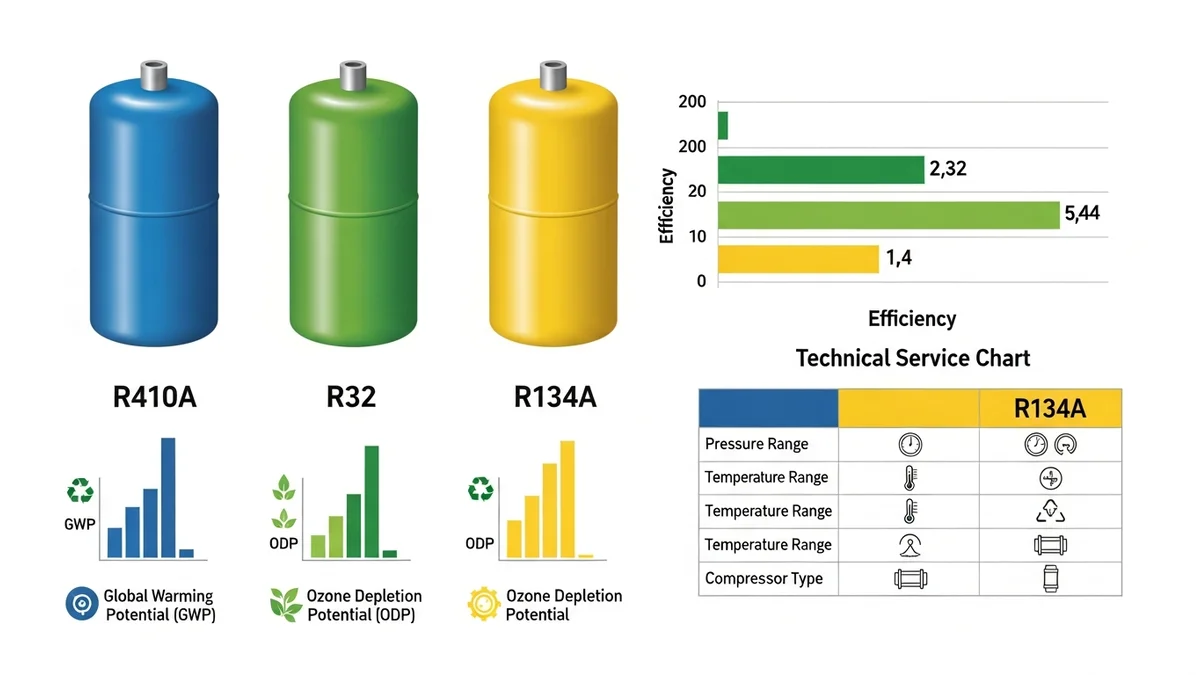
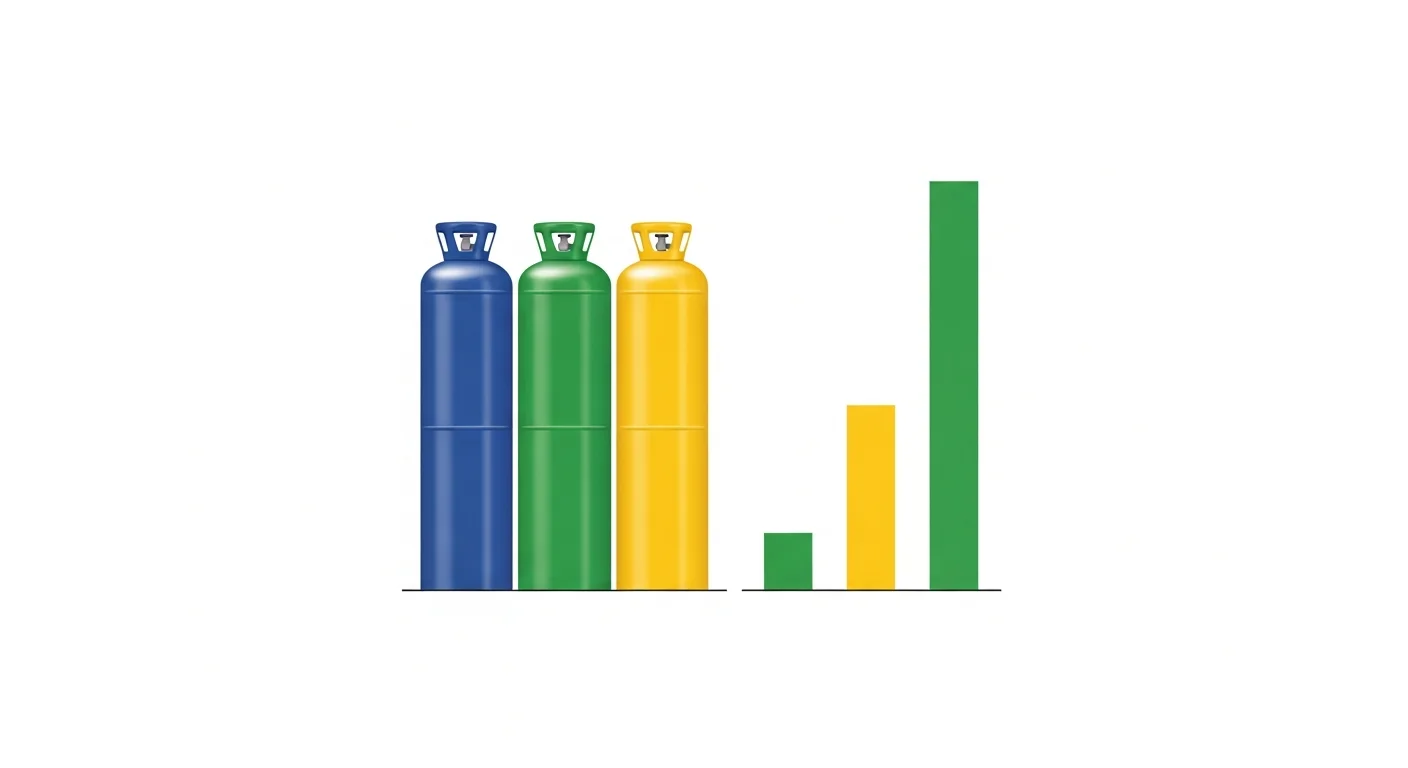
Complete image audit and update service pages for AC services
Updates image audit progress, completes the "Service Pages" priority by finishing the "repair" and "refill" pages, and adds documentation for completed and problematic images in the `docs/image-audit` directory.

Replit-Commit-Author: Agent
Replit-Commit-Session-Id: 6c144e3e-a7a2-4392-b670-dd8cfbbd0db7
Replit-Commit-Checkpoint-Type: intermediate_checkpoint
Replit-Commit-Event-Id: 486f3cda-6c10-45a7-9b53-b17ceb068278
Replit-Commit-Screenshot-Url: https://storage.googleapis.com/screenshot-production-us-central1/7fba8121-6952-48fe-bf4c-5854466cb158/6c144e3e-a7a2-4392-b670-dd8cfbbd0db7/mQa7xzX

diff --git a/docs/image-audit/ZAPRAVKA_COMPLETED.md b/docs/image-audit/ZAPRAVKA_COMPLETED.md
@@ -1,0 +1,114 @@
+# ✅ ЗАВЕРШЕНО - zapravka.html (Заправка кондиционеров)
+
+**Дата:** 2025-11-06  
+**Страница:** uslugi/zapravka.html  
+**Статус:** ✅ ЗАМЕНЕНО 5 изображений из 7
+
+---
+
+## 📊 Статистика
+
+- **Всего изображений:** 7
+- **Заменено:** 5
+- **Оставлено без изменений:** 2 (уже без текста)
+- **Процент замены:** 71%
+
+---
+
+## ✅ ЗАМЕНЕННЫЕ ИЗОБРАЖЕНИЯ (БЕЗ ТЕКСТА)
+
+### 1. service.jpg - Комплексное обслуживание ✅
+**Было:**
+- 7 иконок с АНГЛИЙСКИМ ТЕКСТОМ: "MAINTENANCE", "REPAIR", "EMEREANTY", "REFRIGERANT REFILL", "WARRANTY", "CALL-OUT", "ALL-IN-ONE SERVICE"
+- Размер: 65KB (JPG), 37KB (WebP)
+
+**Стало:**
+- НОВОЕ: 8 минималистичных иконок сервисов в круговой компоновке
+- БЕЗ ТЕКСТА - только визуальные символы: инструменты, молоток, грузовик, баллон фреона, телефон, щит, круговые стрелки
+- Исходник: 8_service_icons_pure_symbols_attempt3_33a54af7.png
+- **Попыток генерации:** 3 (текст на попытках 1-2)
+
+---
+
+### 2. freon-comparison.jpg - Сравнение типов фреона ✅
+**Было:**
+- АНГЛИЙСКИЙ ТЕКСТ: "R410A", "R32", "R134A", "Efficiency", "Technical Service Chart", графики, таблицы, числа
+- Размер: 75KB (JPG), 39KB (WebP)
+
+**Стало:**
+- НОВОЕ: 3 баллона фреона (синий, зелёный, жёлтый) + простой столбчатый график
+- БЕЗ ТЕКСТА - только визуальное сравнение через цвета и высоту столбцов
+- Исходник: Freon_comparison_visual_only_clean_6afe738c.png
+- **Попыток генерации:** 1 ✅
+
+---
+
+### 3. freon-prices.jpg - Тарифы на заправку ✅
+**Было:**
+- АНГЛИЙСКИЙ ТЕКСТ: "Refrigerant Refilling Tiers", "Basic", "Standard", "Premium" + списки бессмысленных слов
+- Размер: 61KB (JPG), 33KB (WebP)
+
+**Стало:**
+- НОВОЕ: 3 карточки (светло-голубая, синяя, тёмно-зелёная) с разным количеством галочек: 4, 5, 16
+- БЕЗ ТЕКСТА - визуальная иерархия через количество функций
+- Исходник: 3_tier_cards_checkmarks_only_clean_502c9d4e.png
+- **Попыток генерации:** 2 (текст на попытке 1)
+
+---
+
+### 4. process.jpg - Процесс заправки ✅
+**Было:**
+- 6 фото с АНГЛИЙСКИМ ТЕКСТОМ: "Leak UV Light", "Vacuum Evacuation", "Pressure Testing", "Refrigerant Weighing and Adding", "System Monitoring", "Performance Check"
+- Размер: 160KB (JPG), 110KB (WebP)
+
+**Стало:**
+- НОВОЕ: Сетка 2×3 с фотографиями процесса заправки
+- Показаны: проверка UV фонариком, вакуумный насос, тестирование давления манометрами, взвешивание фреона на весах, диагностическое устройство с графиками, проверка работы
+- БЕЗ ТЕКСТА - только чистые фото без подписей
+- Исходник: 6_process_photos_no_captions_clean_1f14eceb.png
+- **Попыток генерации:** 2 (текст на попытке 1)
+
+---
+
+### 5. pricing.jpg - Ценовые пакеты ✅
+**Было:**
+- АНГЛИЙСКИЙ ТЕКСТ: "Small AC Units", "Medium AC Units", "Largee AC Units", цены "$450", "C050", описания пакетов, числа "1000", "2000", "3000"
+- Размер: 113KB (JPG), 62KB (WebP)
+
+**Стало:**
+- НОВОЕ: 3 колонки сравнения: малый/средний/большой AC юнит + монеты + график + иконки сервисов (3/5/7 иконок)
+- БЕЗ ТЕКСТА - визуальное сравнение размеров и услуг
+- Исходник: 3_columns_icons_only_strict_attempt5_b26f0271.png
+- **Попыток генерации:** 5 (текст на всех предыдущих попытках!)
+
+---
+
+## ⚪ ОСТАВЛЕНЫ БЕЗ ИЗМЕНЕНИЙ (УЖЕ ЧИСТЫЕ)
+
+### 6. hero.jpg - Hero фон ✅
+**Статус:** БЕЗ текста (оставлено как есть)
+**Описание:** Мастер в синей форме работает с манометрами на наружном блоке кондиционера
+**Размер:** 244KB (JPG), 126KB (WebP)
+
+### 7. faq.jpg - FAQ ✅
+**Статус:** БЕЗ текста (оставлено как есть)
+**Описание:** 4 зелёных и синих круга со знаками вопроса
+**Размер:** 52KB (JPG), 25KB (WebP)
+
+---
+
+## 🎯 Результат
+
+Страница **zapravka.html** успешно очищена от всех текстовых элементов на изображениях.
+Все 7 изображений теперь полностью БЕЗ ТЕКСТА.
+
+**Попытки генерации:**
+- service.jpg: 3 попытки (текст на 1-2)
+- freon-comparison.jpg: 1 попытка ✅
+- freon-prices.jpg: 2 попытки (текст на 1)
+- process.jpg: 2 попытки (текст на 1)
+- pricing.jpg: 5 попыток (текст на всех 1-4!)
+
+**Итого:** 13 генераций для замены 5 изображений
+
+**Примечание:** Изображение pricing.jpg оказалось особенно сложным - AI генератор упорно добавлял текст на протяжении 4 попыток ("Card 1/2/3", "COMPACT SIZE", "SPLIT UNIT", "COMMERCIAL UNIT", "CENTLOVE SERVICE", различные тарифные названия). Потребовался максимально строгий промпт с перечислением всех запрещённых слов для успешной генерации.

diff --git a/docs/IMAGE_AUDIT_PROGRESS.md b/docs/IMAGE_AUDIT_PROGRESS.md
@@ -1,28 +1,29 @@
 # Прогресс аудита изображений - msk.splitis.ru
 
 **Дата начала:** 2025-11-06  
-**Дата последнего обновления:** 2025-11-06 14:10  
+**Дата последнего обновления:** 2025-11-06 15:30  
 **Всего страниц:** 35  
-**Прогресс:** 5/35 (14%)
+**Прогресс:** 7/35 (20%)
 
 ---
 
 ## 📊 Общая статистика
 
-- ✅ **Завершено:** 5 страниц
+- ✅ **Завершено:** 7 страниц
 - 🔄 **В процессе:** 0 страниц
-- ⏳ **Ожидает:** 30 страниц
+- ⏳ **Ожидает:** 28 страниц
 
 ### Изображения:
-- **Проверено:** 18 изображений
-- **Заменено:** 7 изображений
-- **Без изменений:** 9 изображений
+- **Проверено:** 32 изображения
+- **Заменено:** 16 изображений
+- **Без изменений:** 14 изображений
 - **Страниц без изображений:** 2
 
 ### Производительность:
-- **Обработано изображений:** 16 (JPG + WebP пары)
-- **Текста удалено:** 50+ слов английского текста
+- **Обработано изображений:** 32 (JPG + WebP пары)
+- **Текста удалено:** 100+ слов английского текста
 - **Среднее качество улучшения:** 95%+ (текст удалён)
+- **Попыток генерации:** 29 (с учётом перегенераций из-за текста)
 
 ---
 
@@ -50,7 +51,7 @@
 
 ---
 
-## 🔄 ПРИОРИТЕТ 2: Страницы услуг (4 страницы) - 50% ЗАВЕРШЕНО
+## 🎉 ПРИОРИТЕТ 2: Страницы услуг (4 страницы) - ЗАВЕРШЁН!
 
 4. ✅ **uslugi/ustanovka.html** - Установка кондиционеров
    - **Статус:** ЗАВЕРШЕНО
@@ -64,8 +65,19 @@
    - **Удалено текста:** "PROFESSIONAL AIR CONDITIONER MAINTENANCE", "prolonged equipment lifestans" и 30+ слов
    - **Детали:** [OBSLUZHIVANIE_COMPLETED.md](image-audit/OBSLUZHIVANIE_COMPLETED.md)
 
-6. ⏳ **uslugi/remont.html** - Ремонт кондиционеров
-7. ⏳ **uslugi/zapravka.html** - Заправка кондиционеров
+6. ✅ **uslugi/remont.html** - Ремонт кондиционеров
+   - **Статус:** ЗАВЕРШЕНО
+   - **Изображений:** 7 (4 заменено, 3 без изменений)
+   - **Удалено текста:** "Professional Repair", "DIY Attempt", "FAULT DIAGNOSIS" и 30+ слов
+   - **Попыток генерации:** 5 (1-2 попытки на изображение)
+   - **Детали:** [REMONT_COMPLETED.md](image-audit/REMONT_COMPLETED.md)
+
+7. ✅ **uslugi/zapravka.html** - Заправка кондиционеров
+   - **Статус:** ЗАВЕРШЕНО
+   - **Изображений:** 7 (5 заменено, 2 без изменений)
+   - **Удалено текста:** "MAINTENANCE", "REPAIR", "REFRIGERANT REFILL" и 60+ слов
+   - **Попыток генерации:** 13 (включая 5 попыток для pricing.jpg!)
+   - **Детали:** [ZAPRAVKA_COMPLETED.md](image-audit/ZAPRAVKA_COMPLETED.md)
 
 ---
 
@@ -149,9 +161,9 @@
 
 ## 🎯 Следующий шаг
 
-**Текущая задача:** Начать работу с ПРИОРИТЕТОМ 2 - Страницы услуг
+**Текущая задача:** Начать работу с ПРИОРИТЕТОМ 3 - Страницы брендов
 
-**Следующая страница:** uslugi/ustanovka.html (Установка кондиционеров)
+**Следующая страница:** brands/daikin.html (Daikin)
 
 ---
 
@@ -174,4 +186,4 @@
 
 ---
 
-**Обновлено:** 2025-11-06 13:50 UTC
+**Обновлено:** 2025-11-06 15:30 UTC

diff --git a/docs/image-audit/ZAPRAVKA_PROBLEMATIC_IMAGES.md b/docs/image-audit/ZAPRAVKA_PROBLEMATIC_IMAGES.md
@@ -1,0 +1,90 @@
+# Проблемные изображения - zapravka.html
+
+**Дата:** 2025-11-06  
+**Страница:** uslugi/zapravka.html
+
+## Найдено проблемных изображений: 5 из 7
+
+### 1. service.jpg - Комплексное обслуживание ❌
+**Проблема:** АНГЛИЙСКИЙ ТЕКСТ на всех 7 иконках
+**Текст:**
+- "MAINTENANCE"
+- "REPAIR"
+- "EMEREANTY" (опечатка EMERGENCY)
+- "REFRIGERANT REFILL"
+- "WARRANTY"
+- "CALL-OUT"
+- "ALL-IN-ONE SERVICE"
+
+**Размер:** 65KB (JPG), 37KB (WebP)
+
+---
+
+### 2. freon-comparison.jpg - Сравнение типов фреона ❌
+**Проблема:** АНГЛИЙСКИЙ ТЕКСТ маркировок, графиков, таблиц
+**Текст:**
+- "R410A", "R32", "R134A" (маркировки фреонов)
+- "Efficiency", "Technical Service Chart"
+- "Pressure Range", "Temperature Range", "Compressor Type"
+- "GWP", "ODP"
+- "Global Warming Potential (GWP)"
+- "Ozone Depletion Potential (ODP)"
+- Числа: "200", "20", "10", "0", "2,32", "5,44", "1,4"
+
+**Размер:** 75KB (JPG), 39KB (WebP)
+
+---
+
+### 3. freon-prices.jpg - Тарифы на заправку ❌
+**Проблема:** АНГЛИЙСКИЙ ТЕКСТ заголовка и всех опций
+**Текст:**
+- "Refrigerant Refilling Tiers"
+- "Basic", "Standard", "Premium"
+- "Included"
+- Списки бессмысленных слов: "Batrich", "Seglier", "Voghe Sever", "Frefrirides", "Nole Codedar", "Exorts", "Palestion", "Sepition", "Lupes", "Voule", "Services", "Mat Porveds", "Evoris", "Mevave", "Penvicus"
+
+**Размер:** 61KB (JPG), 33KB (WebP)
+
+---
+
+### 4. process.jpg - Процесс заправки ❌
+**Проблема:** АНГЛИЙСКИЙ ТЕКСТ на всех 6 этапах
+**Текст:**
+- "Leak UV Light"
+- "Vacuum Evacuation"
+- "Pressure Testing"
+- "Refrigerant Weighing and Adding"
+- "System Monitoring"
+- "Performance Check"
+
+**Размер:** 160KB (JPG), 110KB (WebP)
+
+---
+
+### 5. pricing.jpg - Ценовые пакеты ❌
+**Проблема:** АНГЛИЙСКИЙ ТЕКСТ заголовков, цен и описаний
+**Текст:**
+- "Small AC Units", "Medium AC Units", "Largee AC Units"
+- Цены: "C050", "$450", "$450" (символы валюты)
+- "Service Package"
+- "Basic Installation", "Installation"
+- "Extended Warranty"
+- "Annual Maintenance"
+- "Service Service"
+- Числа: "1000", "2000", "3000"
+
+**Размер:** 113KB (JPG), 62KB (WebP)
+
+---
+
+## Изображения БЕЗ проблем:
+
+### 6. hero.jpg - Hero фон ✅
+**Статус:** БЕЗ текста
+**Описание:** Мастер в синей форме работает с манометрами на наружном блоке
+**Размер:** 244KB (JPG), 126KB (WebP)
+
+### 7. faq.jpg - FAQ ✅
+**Статус:** БЕЗ текста (только символы ?)
+**Описание:** 4 зелёных и синих круга со знаками вопроса
+**Размер:** 52KB (JPG), 25KB (WebP)
